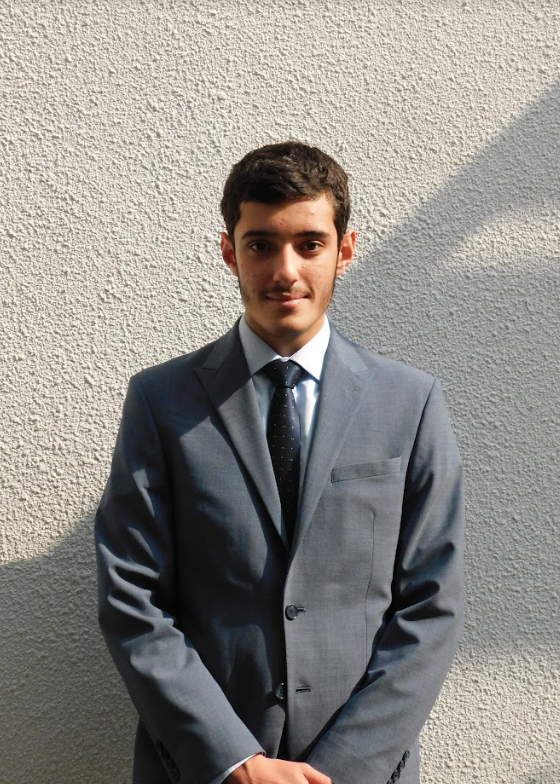
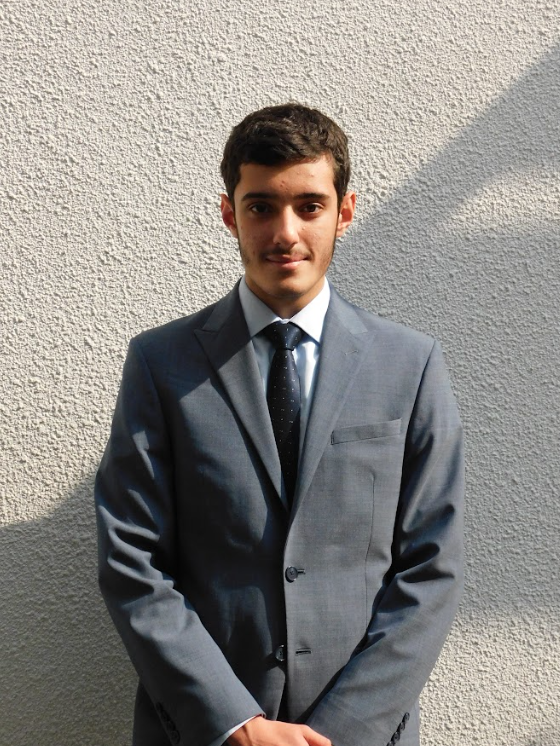
Add files via upload

diff --git a/index.html b/index.html
@@ -152,7 +152,7 @@
         <div class="col-md-3 col-6 the4">
           <div class="row align-items-center">
             <div class="col-md-12 col-12">
-              <img src="images\delina.jpg" id="pic" alt="" />
+              <img src="images\delina.jpg" id="pic"  alt="" />
             </div>
             <div class="col-md-12 col-12">
               <h3>Delina</h3>
@@ -352,7 +352,7 @@
               <div class="carousel-item">
                 <div class="row justify-content-center">
                   <div class="col-8 col-md-4 col-sm-8">
-                    <img src="images\face.png" id="pic" alt="" />
+                    <img src="images\marielle.jpg" id="pic" alt="" />
                   </div>
                   <div class="col-8 col-md-4 col-sm-8 exec-text">
                     <h3>Marielle</h3>
@@ -364,7 +364,7 @@
               <div class="carousel-item">
                 <div class="row justify-content-center">
                   <div class="col-8 col-md-4 col-sm-8">
-                    <img src="images\face.png" id="pic" alt="" />
+                    <img src="images\richelle.jpg" id="pic" alt="" />
                   </div>
                   <div class="col-8 col-md-4 col-sm-8 exec-text">
                     <h3>Richelle</h3>
@@ -472,7 +472,7 @@
               <div class="carousel-item active">
                 <div class="row justify-content-center">
                   <div class="col-8 col-md-4 col-sm-8">
-                    <img src="images\face.png" id="pic" alt="" />
+                    <img src="images\nejood.jpg" id="pic" alt="" />
                   </div>
                   <div class="col-8 col-md-4 col-sm-8 exec-text">
                     <h3>Nejood</h3>
@@ -549,7 +549,7 @@
               <div class="carousel-item">
                 <div class="row justify-content-center">
                   <div class="col-8 col-md-4 col-sm-8">
-                    <img src="images\face.png" id="pic" alt="" />
+                    <img src="images\beissan.jpg" id="pic" alt="" />
                   </div>
                   <div class="col-8 col-md-4 col-sm-8 exec-text">
                     <h3>Beissan</h3>
